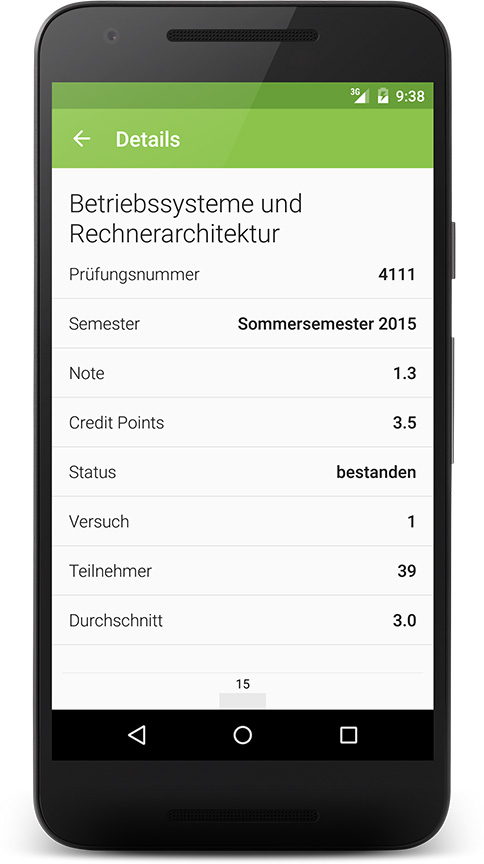
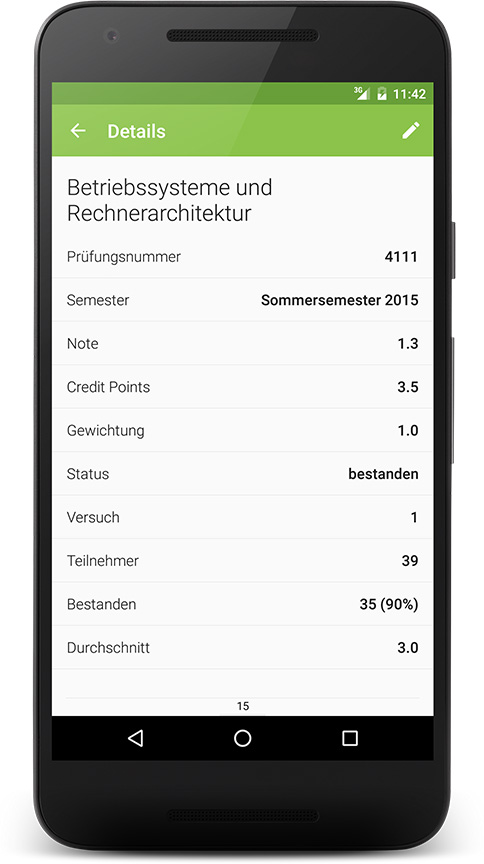
Added new screenshots

diff --git a/README.md b/README.md
@@ -11,12 +11,14 @@ MyGrades is an Android App developed by [Tilman Ginzel](https://github.com/tilma
 Get it on [Google Play.](https://play.google.com/store/apps/details?id=de.mygrades)
 
 ## Screenshots
-<img src="assets/screen-start.jpg?raw=true" width="230px" />
-<img src="assets/screen-login-filled.jpg?raw=true" width="230px" />
-<img src="assets/screen-overview.jpg?raw=true" width="230px" />
-<img src="assets/screen-detail1.jpg?raw=true" width="230px" />
-<img src="assets/screen-detail2.jpg?raw=true" width="230px" />
-<img src="assets/screen-statistics.jpg?raw=true" width="230px" />
+<img src="assets/screen-overview.jpg?raw=true" width="215px" />
+<img src="assets/screen-statistics.jpg?raw=true" width="215px" />
+<img src="assets/screen-detail1.jpg?raw=true" width="215px" />
+<img src="assets/screen-detail2.jpg?raw=true" width="215px" />
+<img src="assets/screen-settings.jpg?raw=true" width="215px" />
+<img src="assets/screen-login-filled.jpg?raw=true" width="215px" />
+<img src="assets/screen-edit-overview.jpg?raw=true" width="215px" />
+<img src="assets/screen-detailed.jpg?raw=true" width="215px" />
 
 ## Used third-party libraries
 * [jsoup](http://jsoup.org/)
